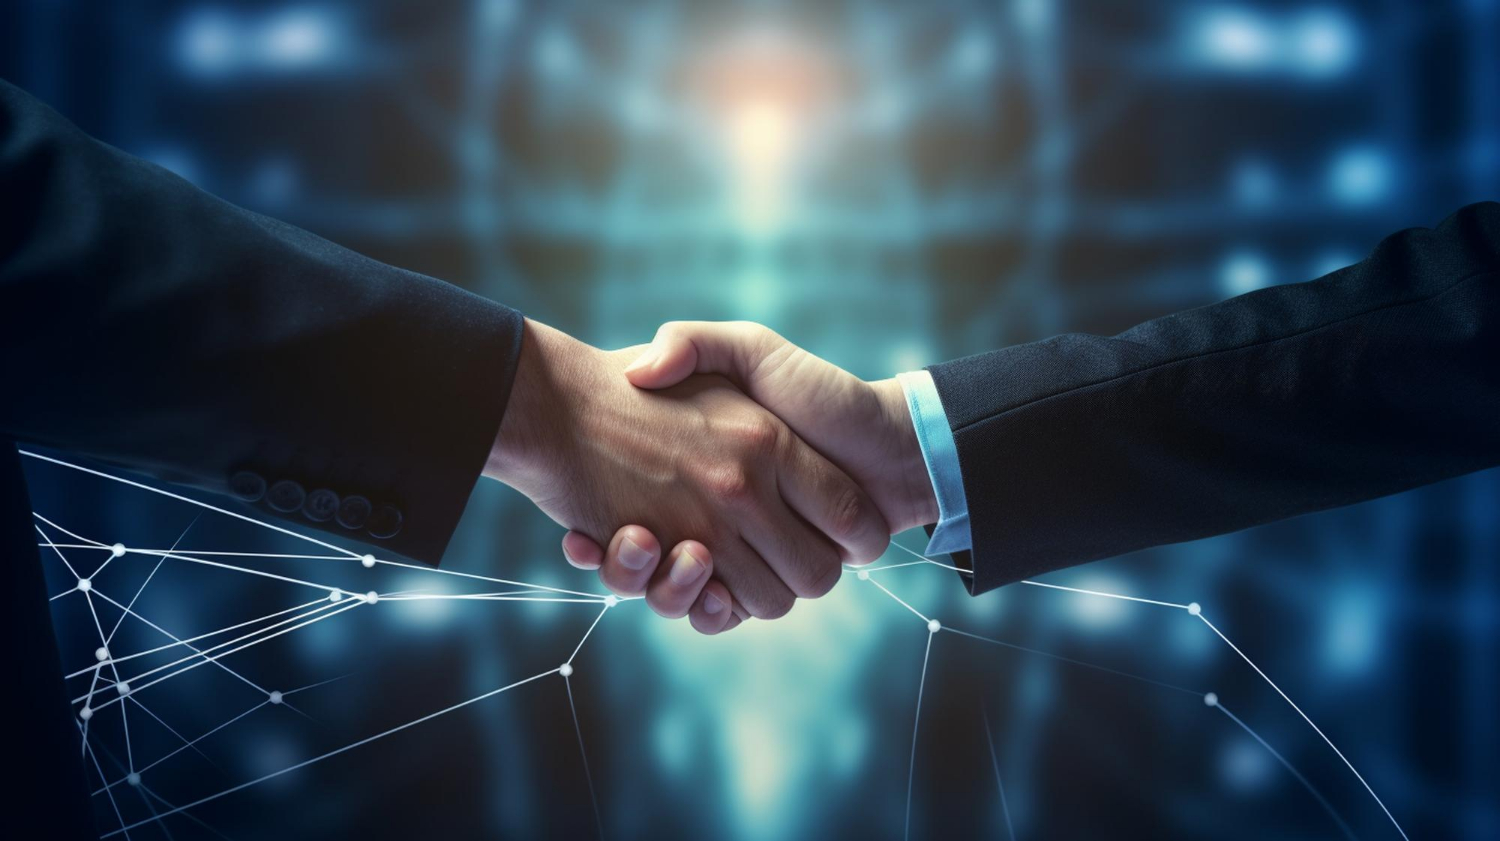
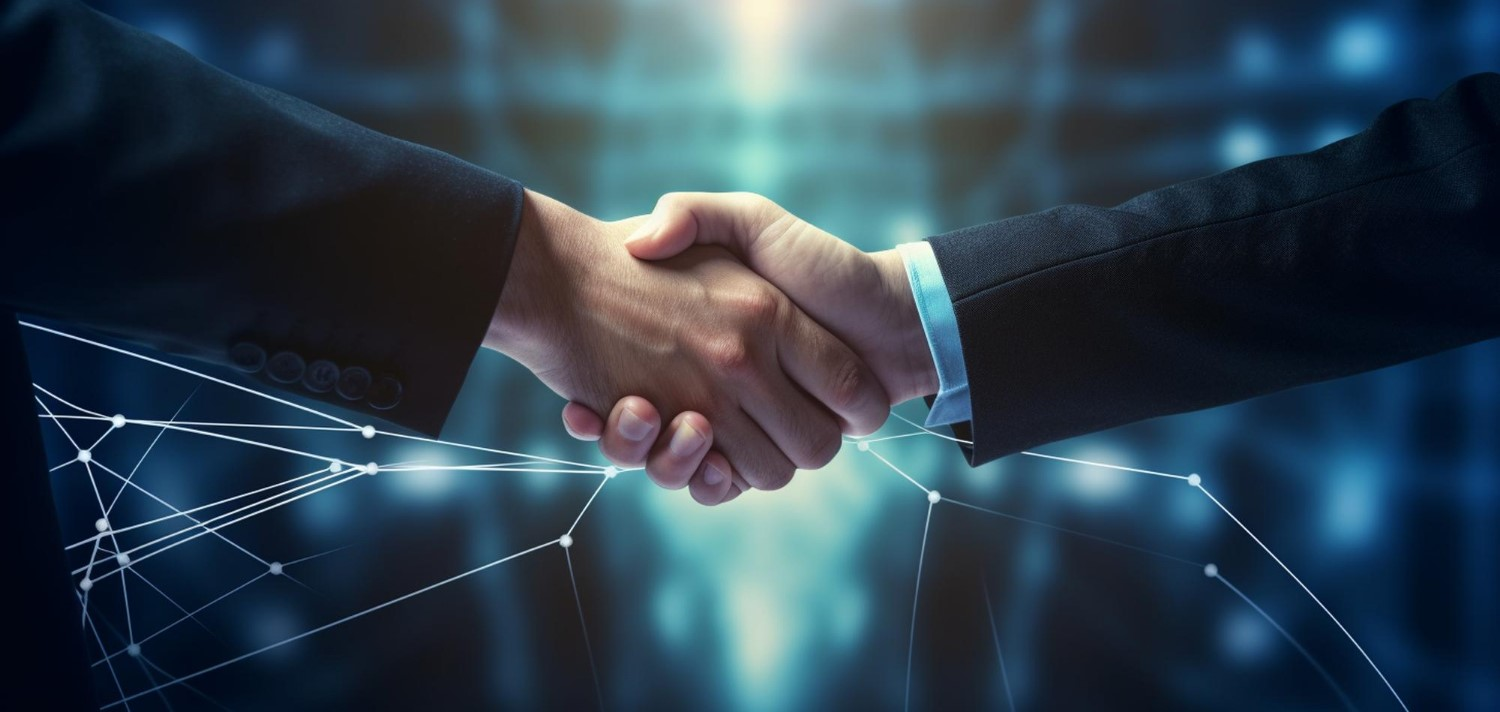
finished section 4

diff --git a/style/styles.css b/style/styles.css
@@ -183,3 +183,55 @@ font-size: 18px;
 font-weight: 700;
 line-height: 19px;
 }
+
+/* section 4 */
+
+.support-container{
+    background-image:  url("../assets/handshake.jpg");
+    background-repeat: none;
+    background-size: cover;
+    height: 350px;
+    border-radius: 16px;
+    margin-top: 70px;
+    text-align: center;
+    padding-top: 65px;
+}
+.support-title{
+    color: rgb(255, 255, 255);
+    font-size: 32px;
+font-weight: 700;
+padding-bottom: 16px;
+}
+.support-description{
+    color: rgb(255, 255, 255);
+font-size: 16px;
+font-weight: 400;
+padding-bottom: 40px;
+}
+
+input[type="text"]{
+    width: 548px;
+    height: 24px;
+    border-radius: 5px;
+    border-style: none;
+    background-color: white;
+    /* display: block;
+    width: 100%; */
+    margin-bottom: 24px;
+    padding: 19px 20px;
+    color: rgba(13, 19, 33, 0.4);
+font-size: 16px;
+font-weight: 400;
+}
+input[type="submit"]{
+    width: 120px;
+    height: 61px;
+    margin-bottom: 24px;
+    padding: 19px 20px;
+    border-radius: 5px;
+    border-style: none;
+    background-color: white;
+    color: rgb(13, 19, 33);
+font-size: 20px;
+font-weight: 600;
+}

diff --git a/index.html b/index.html
@@ -115,9 +115,9 @@
     <!-- section-4 -->
 <div class="support-container">
     <h1 class="support-title">I need Support</h1>
-    <p class="suport-description">Feel free to contact us. Your can give us your feedback</p>
+    <p class="support-description">Feel free to contact us. Your can give us your feedback</p>
     <form action="">
-        <input type="Suggest me any feedback for me" name="" id="" placeholder="Your Name">
+        <input type="text" name="" id="" placeholder="Suggest me any feedback for me">
         <input type="submit" value="Submit">
 
     </form>
